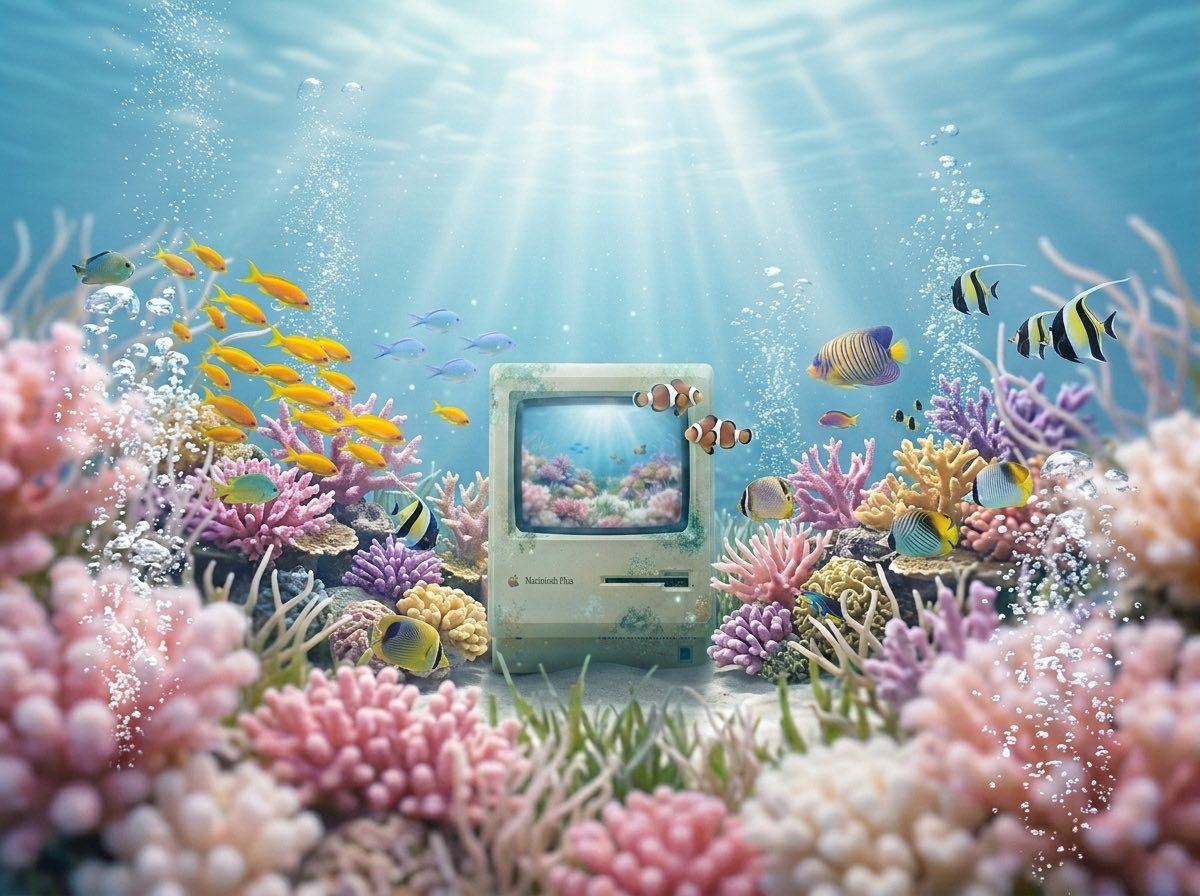
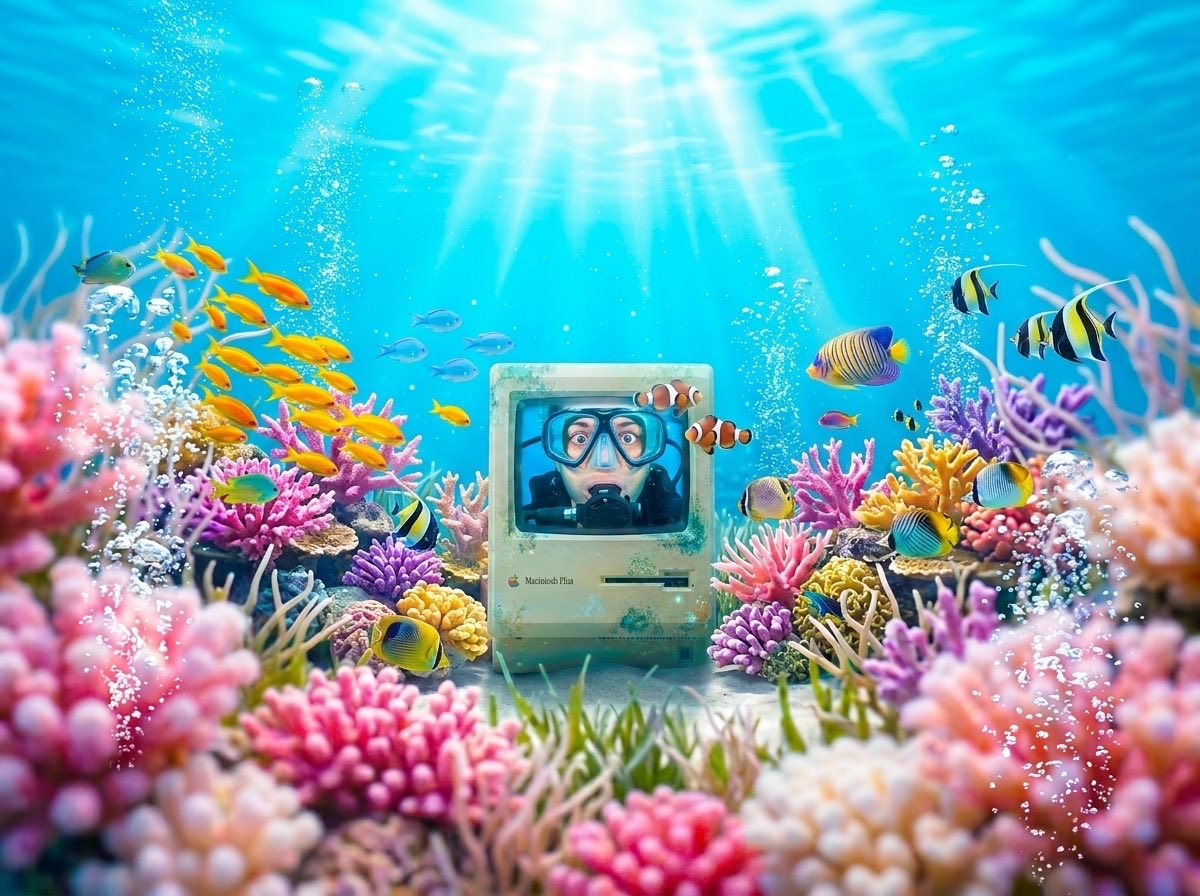
New background, milestone bosses, higher levels, brighter filter
- New diver-in-Macintosh background photo; compressed to 219KB and
  paired with a tiny inlined blurred LQIP so it paints instantly on a
  first visit (no blank/half-drawn background) then fades in sharp
- Removed the badges feature (game-over chips + instructions shelf +
  achievement logic); high-score leaderboard stays
- Bosses no longer appear on a timer — one guards each score milestone
  (350, 700) and appears as you close in; the final boss guards the
  1200 win and unleashes its vicious swarm
- Level thresholds raised: Lv2 at 350, Lv3 at 700, win at 1200
- Camera filter: vibrant light-blue surface tint + more visible,
  screen-blended sun rays

diff --git a/game.js b/game.js
@@ -368,7 +368,6 @@ function openInstructions() {
     box.hidden = true;
   }
   renderTop5();
-  renderBadgeShelf();
   preloadVision(); // warm the hand model while the player reads
   showScreen('instructions');
   music.start('manual');
@@ -384,14 +383,6 @@ function renderTop5() {
     .join('');
 }
 
-function renderBadgeShelf() {
-  const wrap = $('#badgeShelf');
-  if (!wrap) return;
-  const owned = getBadges();
-  wrap.innerHTML = ACHIEVEMENTS
-    .map((a) => `<span class="shelf-badge${owned.includes(a.id) ? ' got' : ''}" title="${a.name}">${owned.includes(a.id) ? '★' : '☆'} ${a.name}</span>`)
-    .join('');
-}
 
 /* ─────────────────────── GAME STATE ──────────────────────────── */
 
@@ -449,20 +440,7 @@ const ZONES = [
   { t: 130, name: 'THE ABYSS' },
 ];
 
-const BADGE_KEY = 'bubblepop.badges';
 const TOP5_KEY = 'bubblepop.top5';
-const ACHIEVEMENTS = [
-  { id: 'first', name: 'First PoP', test: (s) => s.pops >= 1 },
-  { id: 'century', name: 'Century Popper', test: (s) => s.pops >= 100 },
-  { id: 'diver', name: 'Deep Diver', test: (s) => s.time >= 120 },
-  { id: 'untouchable', name: 'Untouchable', test: (s) => s.score >= 100 && s.jellies === 0 },
-  { id: 'combo15', name: 'Combo Machine', test: (s) => s.bestCombo >= 15 },
-  { id: 'gold', name: 'Gold Rush', test: (s) => s.gold >= 1 },
-  { id: 'dodger', name: 'Boss Dodger', test: (s) => s.dodged >= 1 },
-  { id: 'halfk', name: 'Half-K Club', test: (s) => s.score >= 500 },
-  { id: 'survivor', name: 'Survivor', test: (s) => s.survived },
-];
-const getBadges = () => { try { return JSON.parse(localStorage.getItem(BADGE_KEY)) || []; } catch { return []; } };
 const getTop5 = () => { try { return JSON.parse(localStorage.getItem(TOP5_KEY)) || []; } catch { return []; } };
 let bubbles = [];
 let particles = [];
@@ -502,10 +480,14 @@ function difficulty() {
 }
 
 /* ─────────────────────── LEVELS ──────────────────────────────── */
-// Level 2 at 250, Level 3 at 500 — survive to 700 to win.
-const LEVEL_SCORES = [0, 250, 500];
-const WIN_SCORE = 700;
+// Level 2 at 350, Level 3 at 700 — survive to 1200 to win.
+const LEVEL_SCORES = [0, 350, 700];
+const WIN_SCORE = 1200;
 let won = false;
+// score milestones a boss guards; the last one (the win) is the final boss
+const MILESTONES = [350, 700, 1200];
+const BOSS_PROXIMITY = 100;   // boss appears within this many points of a milestone
+let bossDone = new Set();
 const jellySpeedMult = () => 1 + (level - 1) * 0.28;  // jellies get faster each level
 const bossSpeedMult = () => 1 + (level - 1) * 0.4;    // boss gets meaner each level
 
@@ -534,11 +516,6 @@ function onLevelUp() {
   $('#hudLevel').textContent = 'Lv' + level;
   $('#hudLevel').hidden = false;
   bumpHud($('#hudLevel'));
-  // Level 3 warning: the final boss is coming
-  if (level >= 3) {
-    bossTimer = 4; // the final boss shows up quickly
-    setTimeout(() => { if (running === true) banner('⚠ FINAL BOSS AHEAD ⚠', '#ff8a8a'); }, 1600);
-  }
 }
 
 /* ────────────────────── BUBBLES ──────────────────────────────── */
@@ -598,10 +575,10 @@ function spawnBubble(yOffset = 0) {
 /* the boss — a huge jellyfish that crosses the screen; dodge it for +30.
    At Level 3 it becomes the FINAL BOSS: bigger, red, and it releases a
    pack of little vicious jellies as it passes the middle. */
-function spawnBoss() {
+function spawnBoss(isFinal) {
   const dir = srand() < 0.5 ? 1 : -1;
   const vmin = Math.min(W, H);
-  const finalBoss = level >= 3;
+  const finalBoss = !!isFinal;
   const r = clamp((finalBoss ? 0.17 : 0.13) * vmin, finalBoss ? 90 : 64, finalBoss ? 150 : 110);
   bubbles.push({
     type: 'jelly',
@@ -1183,12 +1160,16 @@ function update(dtReal, t) {
     if (matchTime <= 0) { endGame(); return; }
   } else {
     // depth/darkening is driven by the level system (see onLevelUp).
-    // boss jellyfish appears occasionally — sooner & more often at higher levels
-    bossTimer -= dtReal;
-    const bossReady = level >= 2 ? 15 : 35;
-    if (elapsed > bossReady && bossTimer <= 0 && !bubbles.some((b) => b.boss)) {
-      spawnBoss();
-      bossTimer = rand(22 - (level - 1) * 3, 34 - (level - 1) * 4);
+    // a boss guards each milestone — it appears as you close in on the
+    // next level-up (or the win), never at random.
+    if (!bubbles.some((b) => b.boss)) {
+      for (const m of MILESTONES) {
+        if (!bossDone.has(m) && score >= m - BOSS_PROXIMITY) {
+          bossDone.add(m);
+          spawnBoss(m === WIN_SCORE);
+          break;
+        }
+      }
     }
   }
 
@@ -1401,6 +1382,7 @@ function resetState() {
   zoneIdx = 0;
   level = 1;
   won = false;
+  bossDone = new Set();
   bossTimer = rand(30, 42);
   matchTime = MATCH_SECONDS;
   fx.frenzyT = 0; fx.slowT = 0; fx.shield = false;
@@ -1460,7 +1442,7 @@ async function startGame() {
   beginRun();
 }
 
-/** Persist a finished solo run; returns { best, isRecord, fresh badges }. */
+/** Persist a finished solo run; returns { best, isRecord }. */
 function saveRun() {
   const best = getBest();
   const isRecord = score > best;
@@ -1470,13 +1452,7 @@ function saveRun() {
   top.push({ score, date: new Date().toISOString().slice(0, 10) });
   top.sort((a, b) => b.score - a.score);
   localStorage.setItem(TOP5_KEY, JSON.stringify(top.slice(0, 5)));
-
-  const runStats = { ...stats, score, time: elapsed, bestCombo, survived: won };
-  const had = getBadges();
-  const now = ACHIEVEMENTS.filter((a) => a.test(runStats)).map((a) => a.id);
-  const fresh = now.filter((id) => !had.includes(id));
-  localStorage.setItem(BADGE_KEY, JSON.stringify([...new Set([...had, ...now])]));
-  return { best, isRecord, fresh };
+  return { best, isRecord };
 }
 
 function endGame() {
@@ -1487,7 +1463,7 @@ function endGame() {
 
   if (mode === '2p') return endMatch();
 
-  const { best, isRecord, fresh } = saveRun();
+  const { best, isRecord } = saveRun();
   if (isRecord) snd.record(); else snd.over();
 
   const card = $('#gameOver .go-card');
@@ -1497,7 +1473,6 @@ function endGame() {
   $('#goScore').textContent = score;
   $('#goBest').textContent = Math.max(best, score);
   $('#goRecord').hidden = !isRecord;
-  renderGoBadges(fresh);
   renderShare(score);
   setTimeout(() => { $('#gameOver').hidden = false; }, 750);
 }
@@ -1510,7 +1485,7 @@ function winGame() {
   music.stop();
   snd.victory();
 
-  const { best, isRecord, fresh } = saveRun();
+  const { best, isRecord } = saveRun();
 
   // grand celebration: rising bubbles + confetti burst
   bubbleWash();
@@ -1523,7 +1498,6 @@ function winGame() {
   $('#goScore').textContent = score;
   $('#goBest').textContent = Math.max(best, score);
   $('#goRecord').hidden = !isRecord;
-  renderGoBadges(fresh);
   renderShare(score);
   setTimeout(() => { $('#gameOver').hidden = false; }, 1600);
 }
@@ -1554,23 +1528,8 @@ function endMatch() {
   $('#goScore').textContent = p1;
   $('#goBest').textContent = p2;
   $('#goRecord').hidden = true;
-  $('#goBadges').innerHTML = '';
   renderShare(Math.max(p1, p2));
   setTimeout(() => { $('#gameOver').hidden = false; }, 700);
-}
-
-function renderGoBadges(fresh) {
-  const wrap = $('#goBadges');
-  const owned = getBadges();
-  wrap.innerHTML = '';
-  if (!owned.length) return;
-  ACHIEVEMENTS.forEach((a) => {
-    if (!owned.includes(a.id)) return;
-    const b = document.createElement('span');
-    b.className = 'badge' + (fresh.includes(a.id) ? ' fresh' : '');
-    b.textContent = a.name;
-    wrap.appendChild(b);
-  });
 }
 
 function renderShare(sc) {

diff --git a/style.css b/style.css
@@ -44,14 +44,20 @@ button { font: inherit; cursor: pointer; }
 }
 .screen.is-active { display: block; }
 
-/* gradient paints instantly; the photo fades in only when fully loaded,
-   so it never renders half-drawn top-to-bottom */
+/* A tiny inlined blurred thumbnail paints instantly (no network wait),
+   then the full photo fades in on top once it has fully downloaded —
+   so a first-time visitor never sees a blank or half-drawn background. */
 .aquarium-bg {
   position: absolute;
   inset: 0;
-  background:
-    radial-gradient(120% 90% at 50% -10%, #d4f0fc 0%, transparent 55%),
-    linear-gradient(180deg, #9cd6f2 0%, #5aabd4 45%, #3d8bb0 80%, #2e7f9e 100%);
[1 lines of base64/hex data omitted]
+}
+.aquarium-bg::before {
+  content: '';
+  position: absolute;
+  inset: 0;
+  backdrop-filter: blur(12px);
+  -webkit-backdrop-filter: blur(12px);
 }
 .aquarium-bg::after {
   content: '';
@@ -59,7 +65,7 @@ button { font: inherit; cursor: pointer; }
   inset: 0;
   background: url('assets/aquarium.jpg') center / cover no-repeat;
   opacity: 0;
-  transition: opacity 0.7s ease;
+  transition: opacity 0.6s ease;
 }
 .aquarium-bg.bg-loaded::after { opacity: 1; }
 .aquarium-bg.dimmed { filter: brightness(0.75) saturate(0.9); }
@@ -409,17 +415,6 @@ button { font: inherit; cursor: pointer; }
 .top5 b { font-family: 'Press Start 2P', monospace; font-size: clamp(11px, 1.6vw, 14px); color: var(--ink); }
 .top5 .t5-date { margin-left: auto; font-size: 11px; color: #9a8666; }
 .top5 .t5-empty { color: #9a8666; font-style: italic; }
-.badge-shelf { display: flex; flex-wrap: wrap; gap: 6px; }
-.shelf-badge {
-  font-family: 'Press Start 2P', monospace;
-  font-size: 7.5px;
-  padding: 5px 7px;
-  border-radius: 5px;
-  background: #e7ded0;
-  color: #b0a48e;
-  line-height: 1.4;
-}
-.shelf-badge.got { background: #ffe08a; color: #6b5335; }
 
 @media (max-width: 640px) {
   .manual-body { grid-template-columns: 1fr; gap: 14px; padding: 14px; }
@@ -488,10 +483,10 @@ button { font: inherit; cursor: pointer; }
     /* sunlit surface above, deep ocean blue below — +20% blue intensity */
     linear-gradient(
       180deg,
-      rgba(200, 238, 255, 0.15) 0%,
-      rgba(60, 160, 235, 0.46) 35%,
-      rgba(8, 68, 175, 0.75) 68%,
-      rgba(2, 22, 92, 0.95) 100%
+      rgba(90, 205, 255, 0.32) 0%,
+      rgba(50, 165, 240, 0.5) 35%,
+      rgba(8, 78, 185, 0.76) 68%,
+      rgba(2, 24, 96, 0.95) 100%
     );
   mix-blend-mode: multiply;
   pointer-events: none;
@@ -507,18 +502,21 @@ button { font: inherit; cursor: pointer; }
   position: absolute;
   inset: -30% -10% 0;
   background:
-    linear-gradient(105deg, transparent 40%, rgba(255, 255, 255, 0.2) 45%, transparent 50%),
-    linear-gradient(95deg, transparent 58%, rgba(255, 255, 255, 0.15) 63%, transparent 68%),
-    linear-gradient(115deg, transparent 74%, rgba(255, 255, 255, 0.17) 78%, transparent 83%);
+    radial-gradient(60% 40% at 52% -6%, rgba(220, 245, 255, 0.35), transparent 70%),
+    linear-gradient(104deg, transparent 38%, rgba(255, 255, 255, 0.34) 45%, transparent 51%),
+    linear-gradient(96deg, transparent 56%, rgba(255, 255, 255, 0.26) 62%, transparent 69%),
+    linear-gradient(114deg, transparent 72%, rgba(255, 255, 255, 0.3) 78%, transparent 84%),
+    linear-gradient(88deg, transparent 20%, rgba(255, 255, 255, 0.2) 26%, transparent 31%);
   /* dissolve softly into the deep — no visible edge at any screen size */
-  -webkit-mask-image: linear-gradient(180deg, #000 30%, transparent 78%);
-  mask-image: linear-gradient(180deg, #000 30%, transparent 78%);
+  -webkit-mask-image: linear-gradient(180deg, #000 35%, transparent 82%);
+  mask-image: linear-gradient(180deg, #000 35%, transparent 82%);
+  mix-blend-mode: screen;
   animation: rays-sway 9s ease-in-out infinite alternate;
   pointer-events: none;
 }
 @keyframes rays-sway {
-  from { transform: translateX(-2.5%) skewX(-2deg); opacity: 0.75; }
-  to   { transform: translateX(2.5%) skewX(2deg); opacity: 1; }
+  from { transform: translateX(-3%) skewX(-2.5deg); opacity: 0.85; }
+  to   { transform: translateX(3%) skewX(2.5deg); opacity: 1; }
 }
 
 /* swimming fish */
@@ -688,24 +686,6 @@ button { font: inherit; cursor: pointer; }
   transition: opacity 0.3s ease, transform 0.3s ease;
 }
 .toast.show { opacity: 1; transform: translate(-50%, 0); }
-
-/* game-over badges */
-.go-badges { display: flex; flex-wrap: wrap; gap: 6px; justify-content: center; margin-top: 12px; }
-.go-badges .badge {
-  font-family: 'Press Start 2P', monospace;
-  font-size: 8px;
-  padding: 6px 8px;
-  border-radius: 6px;
-  background: #ffe08a;
-  color: #6b5335;
-  line-height: 1.4;
-}
-.go-badges .badge.fresh {
-  background: var(--nintendo-red);
-  color: #fff;
-  animation: badge-pop 0.5s ease both;
-}
-@keyframes badge-pop { 0% { transform: scale(0); } 70% { transform: scale(1.25); } 100% { transform: scale(1); } }
 
 /* victory confetti */
 .confetti { position: fixed; inset: 0; z-index: 15; pointer-events: none; overflow: hidden; }

diff --git a/index.html b/index.html
@@ -79,11 +79,6 @@
               <h3 class="mini-h">HIGH SCORES</h3>
               <ol id="top5List" class="top5"></ol>
             </div>
-
-            <div class="mini-panel">
-              <h3 class="mini-h">BADGES</h3>
-              <div id="badgeShelf" class="badge-shelf"></div>
-            </div>
           </div>
 
           <!-- right : how to play -->
@@ -95,8 +90,8 @@
               <li><b>Jellyfish</b> hide as pretty bubbles — pop <b>3</b> and you're out. <span class="tag tag-bad">☠</span></li>
               <li><b>Golden bubble</b> ✨ is rare &amp; fast — grab it for <span class="tag tag-good">+50</span></li>
               <li><b>Gift bubbles</b> 🎁 drop points, an extra <span class="tag tag-life">♥</span>, or a power-up: <b>FRENZY</b> (all O₂), <b>SLOW-MO</b>, or a <b>SHIELD</b> that eats one jellyfish hit.</li>
-              <li><b>Level up!</b> <span class="tag tag-good">250</span> → Lv2, <span class="tag tag-good">500</span> → Lv3. It gets deeper, darker &amp; faster, and jellyfish turn angry. Dodge the <b>BOSS JELLY</b> for <span class="tag tag-good">+30</span>.</li>
-              <li><b>Reach 700 to WIN</b> 🏆 — but first survive the <b>FINAL BOSS</b> and its vicious jelly swarm!</li>
+              <li><b>Level up!</b> <span class="tag tag-good">350</span> → Lv2, <span class="tag tag-good">700</span> → Lv3. It gets deeper, darker &amp; faster, and jellyfish turn angry. A <b>BOSS JELLY</b> guards each milestone — dodge it for <span class="tag tag-good">+30</span>.</li>
+              <li><b>Reach 1200 to WIN</b> 🏆 — but first survive the <b>FINAL BOSS</b> and its vicious jelly swarm!</li>
             </ol>
 
             <div class="mode-pick">
@@ -211,7 +206,6 @@
           <div class="go-box"><span>BEST</span><b id="goBest">0</b></div>
         </div>
         <div id="goRecord" class="go-record" hidden>★ NEW RECORD ★</div>
-        <div id="goBadges" class="go-badges"></div>
         <div class="go-actions">
           <button id="btnRetry" class="btn-candy" type="button">Play Again</button>
           <button id="btnShare" class="btn-candy btn-ghost" type="button">Challenge a Friend</button>
@@ -231,7 +225,7 @@
         <li><span class="hb hb-jelly">🪼</span><span class="ht">Jellyfish hide as pretty bubbles — pop <b>3</b> and you're out <span class="tag tag-bad">☠</span></span></li>
         <li><span class="hb hb-gold">✦</span><span class="ht">Golden bubble = fast &amp; rare <span class="tag tag-good">+50</span></span></li>
         <li><span class="hb hb-gift">🎁</span><span class="ht">Gifts drop points, a <span class="tag tag-life">♥</span>, or a power-up: <b>FRENZY</b>, <b>SLOW-MO</b>, <b>SHIELD</b></span></li>
-        <li><span class="hb hb-boss">◆</span><span class="ht"><b>250</b>→Lv2, <b>500</b>→Lv3. Dodge the <b>BOSS JELLY</b> <span class="tag tag-good">+30</span>. Reach <b>700 to WIN</b> 🏆 — beat the FINAL BOSS swarm!</span></li>
+        <li><span class="hb hb-boss">◆</span><span class="ht"><b>350</b>→Lv2, <b>700</b>→Lv3. Dodge the <b>BOSS JELLY</b> <span class="tag tag-good">+30</span>. Reach <b>1200 to WIN</b> 🏆 — beat the FINAL BOSS swarm!</span></li>
       </ul>
       <p class="help-foot">🔒 Your camera never leaves your device.</p>
       <button id="btnHelpResume" class="btn-candy" type="button">Got it!</button>